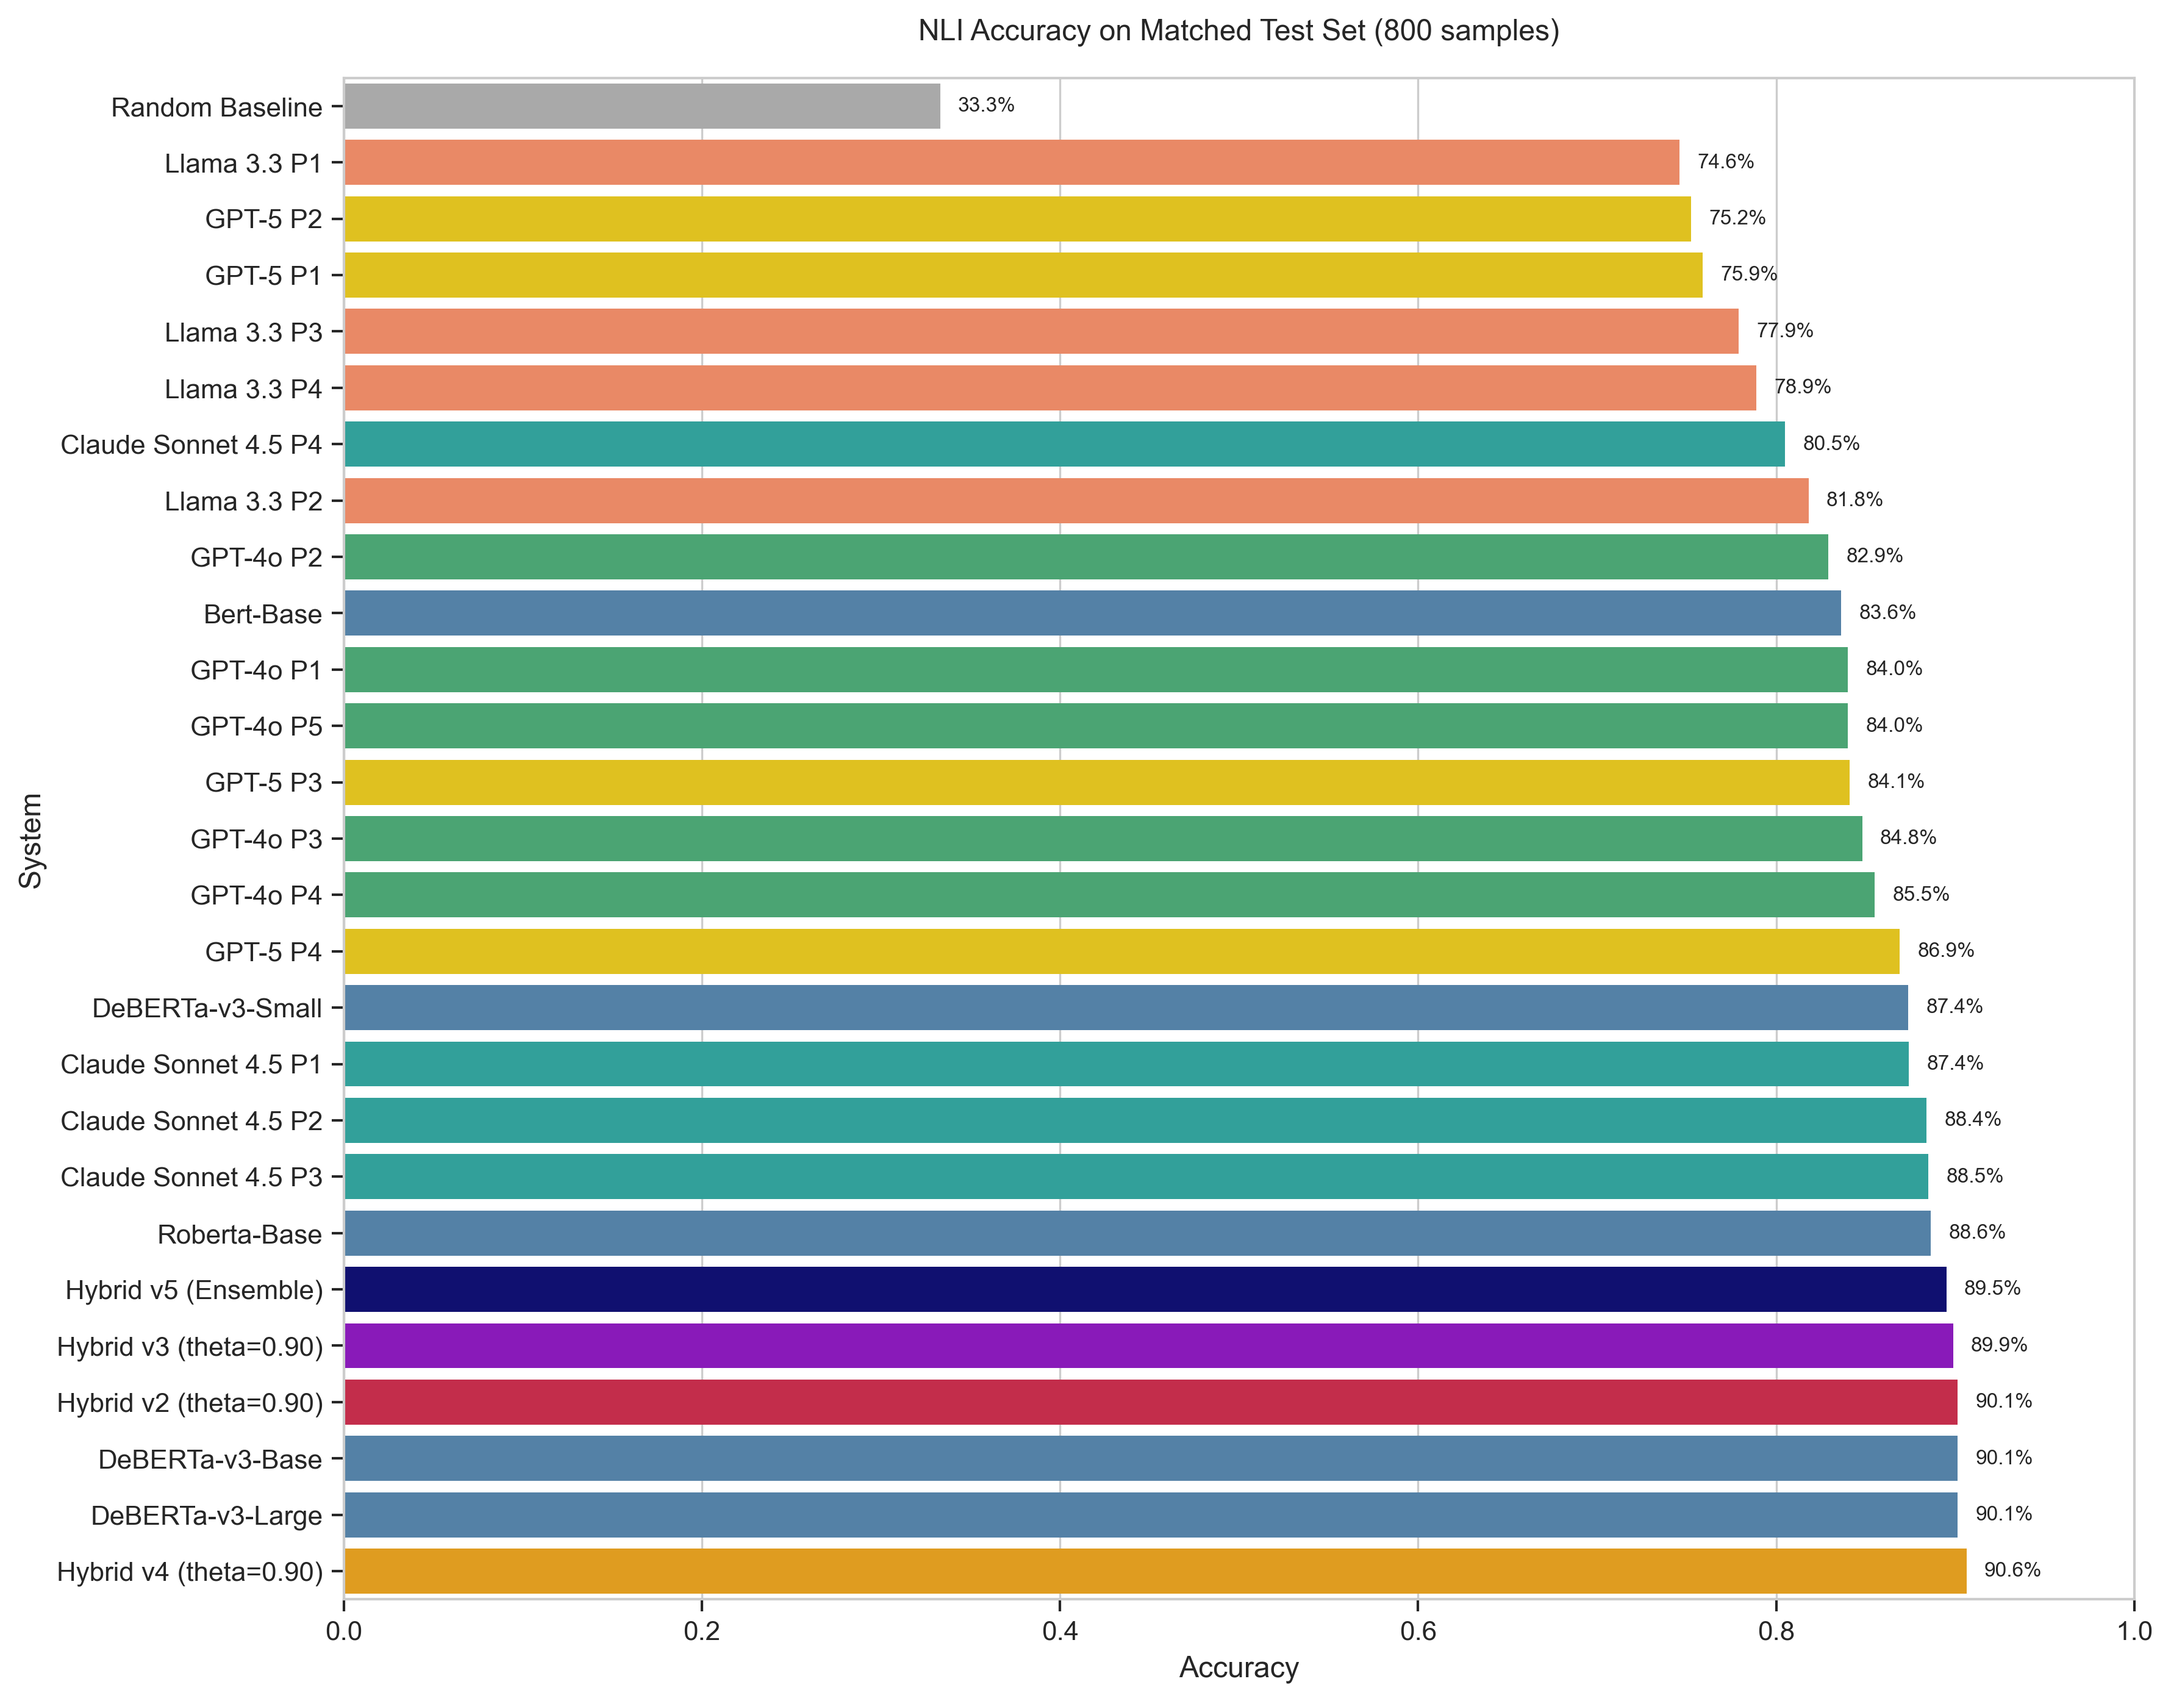
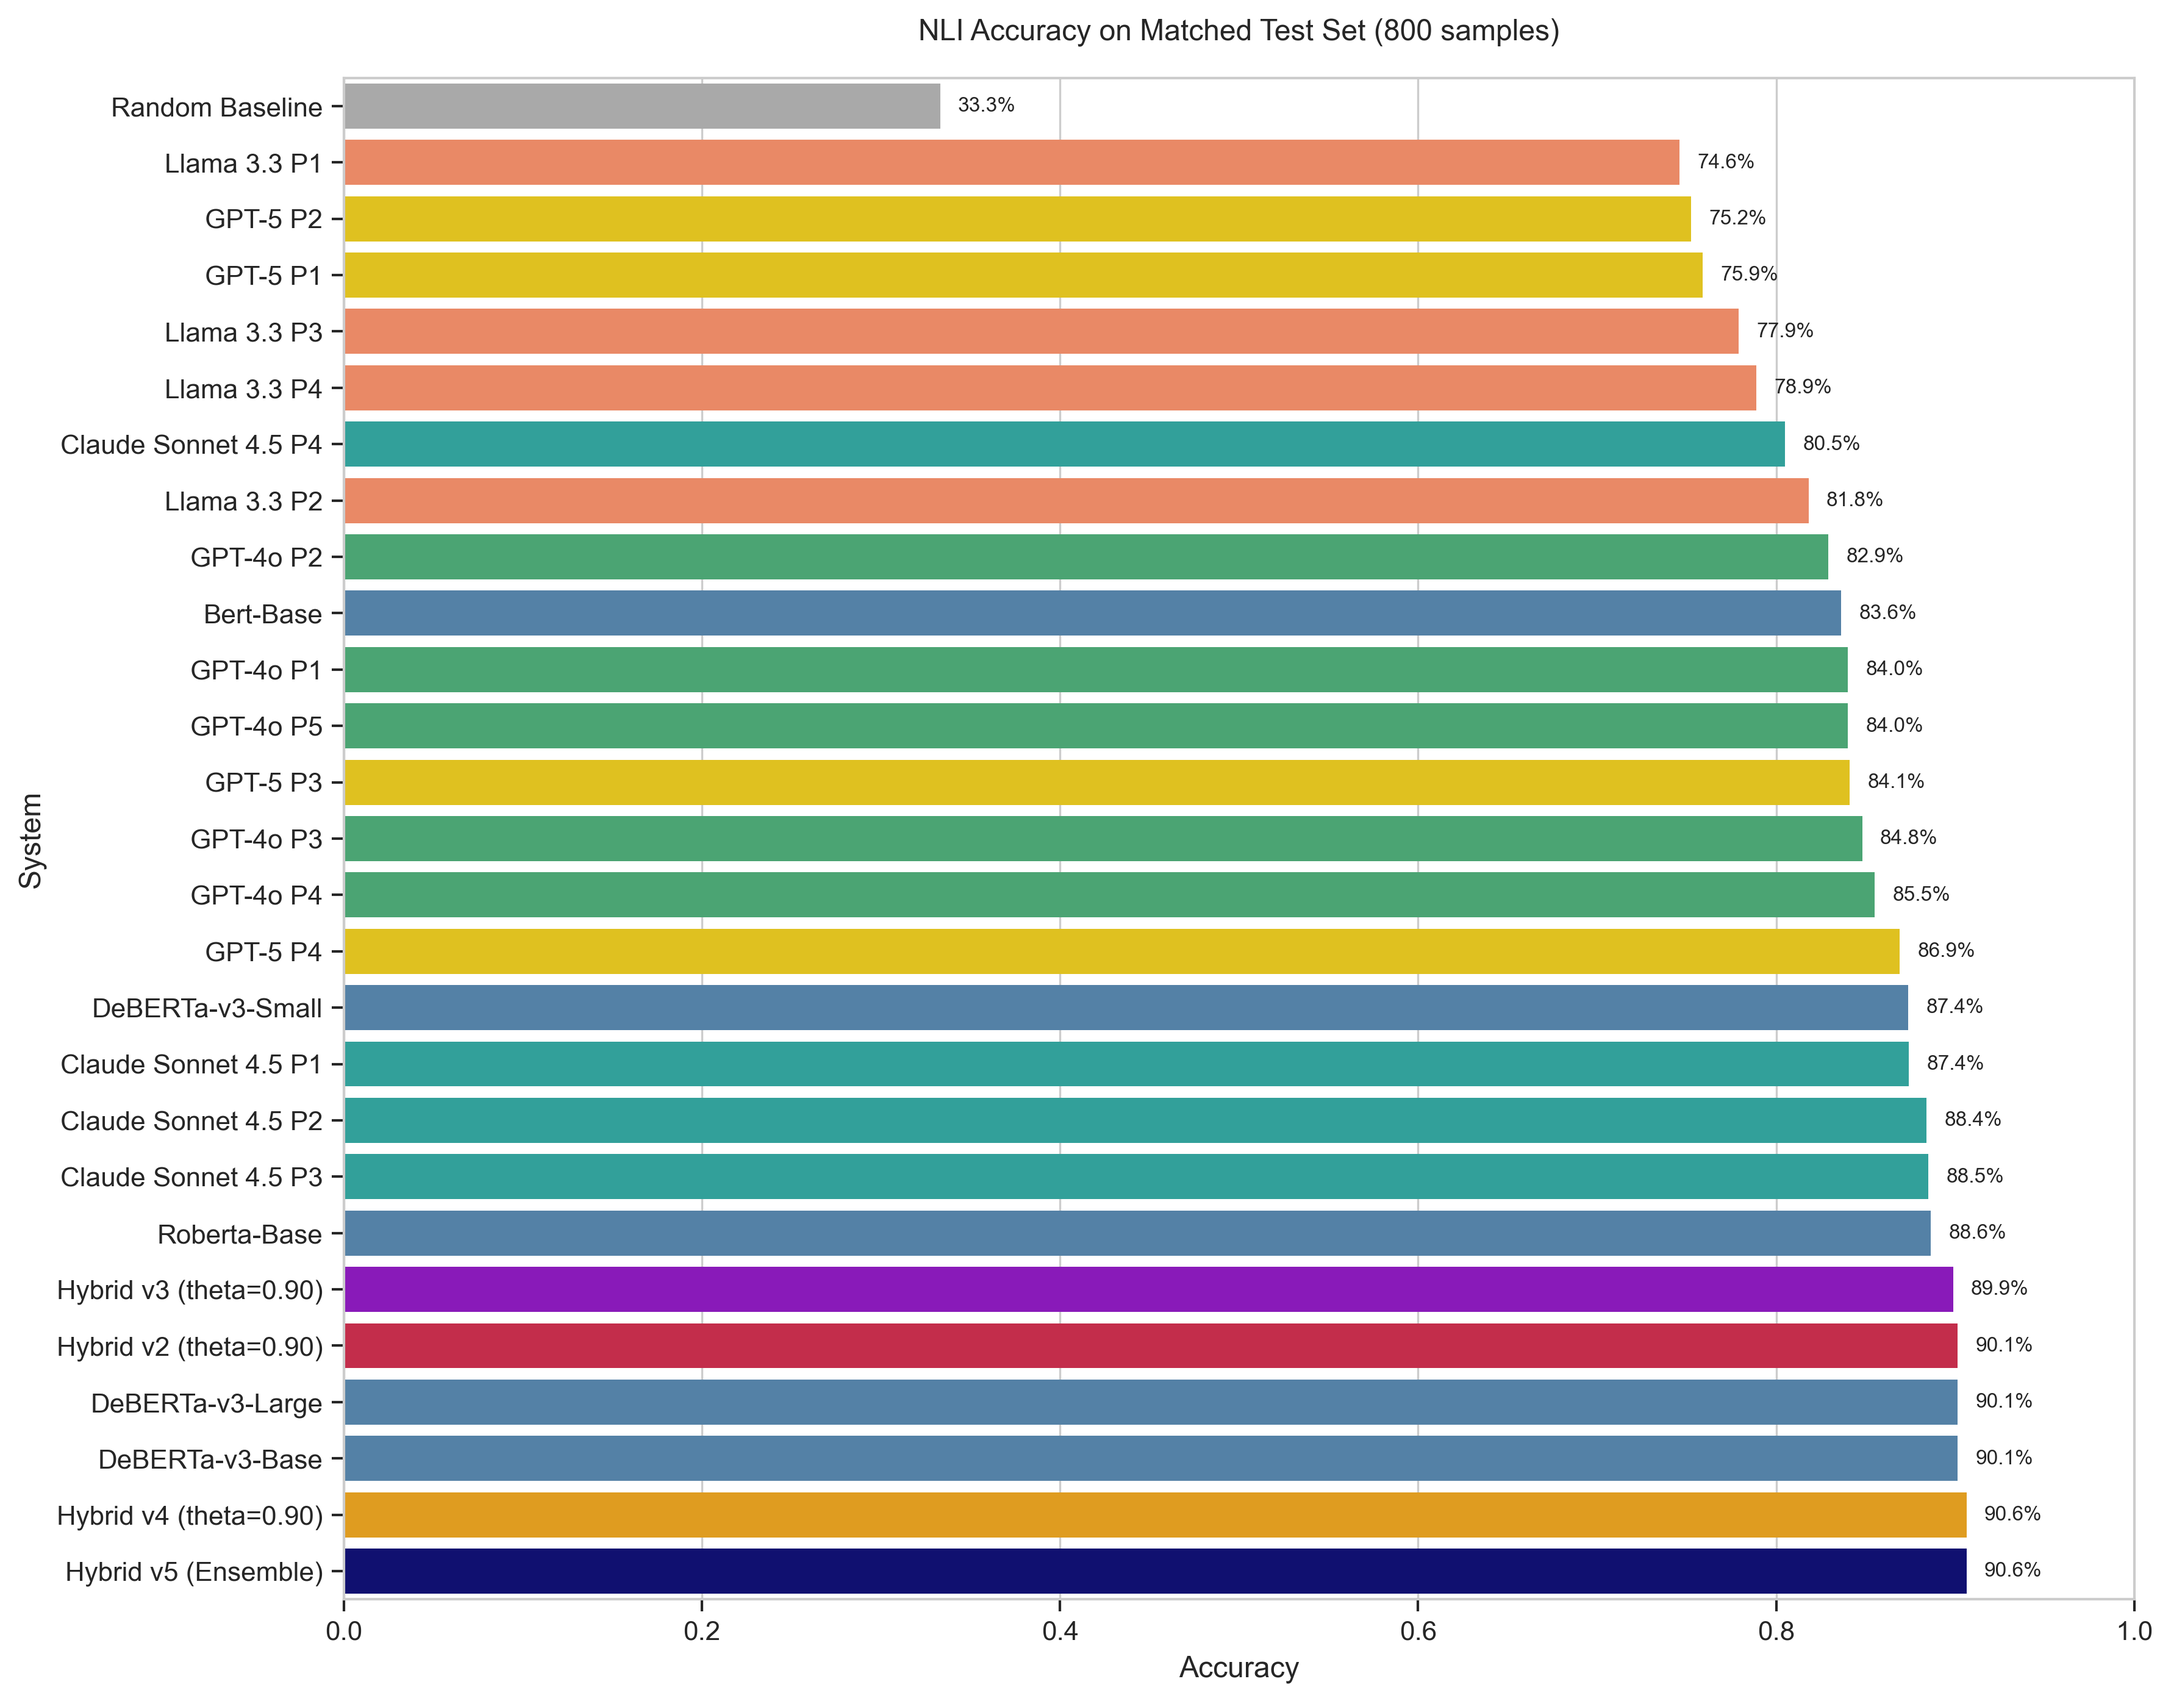
Fix: Patch 30 Hybrid v5 unknown predictions via majority vote — Matched 90.62%, MM 92.50%

Changed region(s): [[0.0312, 0.7175, 0.9354, 0.8422], [0.0312, 0.8734, 0.9354, 0.9358]]

diff --git a/src/patch_v5_unknowns.py b/src/patch_v5_unknowns.py
@@ -1,0 +1,130 @@
+#!/usr/bin/env python3
+"""
+patch_v5_unknowns.py
+====================
+Fixes all label_pred == "unknown" rows in hybrid_v5_results.csv
+WITHOUT making any API calls.
+
+Strategy (mirrors what friend did):
+  1. Read deb_preds column  →  "entailment|entailment|neutral" etc.
+  2. Majority vote (2-of-3 or 3-of-3) → use that label
+  3. Three-way tie (all different) → use DeBERTa-base prediction (middle field)
+
+Run:
+    python src/patch_v5_unknowns.py
+
+Outputs:
+    results/hybrid_v5_results.csv   (patched in-place, backup saved as hybrid_v5_results_backup.csv)
+"""
+
+import os
+import pandas as pd
+from collections import Counter
+from sklearn.metrics import accuracy_score, f1_score
+
+PROJECT_DIR = os.path.dirname(os.path.dirname(os.path.abspath(__file__)))
+RESULTS_DIR = os.path.join(PROJECT_DIR, "results")
+CSV_PATH    = os.path.join(RESULTS_DIR, "hybrid_v5_results.csv")
+BACKUP_PATH = os.path.join(RESULTS_DIR, "hybrid_v5_results_backup.csv")
+LABELS      = ["entailment", "neutral", "contradiction"]
+
+
+def majority_vote(deb_preds_str: str) -> str:
+    """
+    Given 'entailment|neutral|entailment', return majority label.
+    deb_preds order: deberta_v3_small | deberta_v3_base | deberta_v3_large
+    Tiebreaker (3-way tie): use deberta_v3_base (index 1).
+    """
+    parts = [p.strip().lower() for p in deb_preds_str.split("|")]
+    if len(parts) != 3:
+        return "unknown"
+
+    counts = Counter(parts)
+    most_common = counts.most_common()
+
+    # 3-of-3 or 2-of-3 majority
+    if most_common[0][1] >= 2:
+        return most_common[0][0]
+
+    # 3-way tie → use DeBERTa-base (index 1)
+    return parts[1]
+
+
+def main():
+    if not os.path.exists(CSV_PATH):
+        print(f"❌  File not found: {CSV_PATH}")
+        return
+
+    df = pd.read_csv(CSV_PATH)
+    total_rows = len(df)
+
+    # Backup before patching
+    df.to_csv(BACKUP_PATH, index=False)
+    print(f"✅  Backup saved → {BACKUP_PATH}")
+
+    # Find unknown rows
+    mask = df["label_pred"] == "unknown"
+    n_unknown = mask.sum()
+
+    if n_unknown == 0:
+        print("✅  No unknowns found — nothing to patch.")
+        return
+
+    print(f"\n🔍  Found {n_unknown} unknown rows — applying majority vote fix...\n")
+
+    # Apply fix
+    fixed = 0
+    for idx in df[mask].index:
+        deb_str = str(df.at[idx, "deb_preds"])
+        new_label = majority_vote(deb_str)
+        row_set = df.at[idx, "set"]
+        row_idx = df.at[idx, "idx"]
+        print(f"  Row {idx:4d} | {row_set:12s} idx={row_idx:3d} | "
+              f"deb_preds={deb_str:40s} → {new_label}")
+        df.at[idx, "label_pred"] = new_label
+        fixed += 1
+
+    print(f"\n✅  Fixed {fixed}/{n_unknown} unknown rows via majority vote / DeBERTa-base fallback")
+
+    # Save patched file
+    df.to_csv(CSV_PATH, index=False)
+    print(f"✅  Saved patched file → {CSV_PATH}")
+
+    # Verify no unknowns remain
+    remaining = (df["label_pred"] == "unknown").sum()
+    if remaining > 0:
+        print(f"⚠   WARNING: {remaining} unknowns still remain after patching!")
+    else:
+        print(f"✅  0 unknowns remaining")
+
+    # Print final metrics
+    print("\n" + "=" * 60)
+    print("FINAL METRICS AFTER PATCH")
+    print("=" * 60)
+    for set_name in ["matched", "mismatched"]:
+        sub = df[df["set"] == set_name]
+        n   = len(sub)
+        acc = accuracy_score(sub["label_true"], sub["label_pred"])
+        f1  = f1_score(sub["label_true"], sub["label_pred"],
+                       average="macro", labels=LABELS)
+        unk = (sub["label_pred"] == "unknown").sum()
+        ens_pct = (sub["source"] == "ensemble").mean() * 100
+        api_pct = (sub["source"] == "api").mean() * 100
+        print(f"\n  {set_name} ({n}/{800 if set_name=='matched' else 400})")
+        print(f"    Accuracy  : {acc*100:.2f}%")
+        print(f"    Macro F1  : {f1:.4f}")
+        print(f"    Unknowns  : {unk}")
+        print(f"    Ensemble% : {ens_pct:.1f}%  |  API%: {api_pct:.1f}%")
+
+    print("\n" + "=" * 60)
+    print("PATCH COMPLETE ✅")
+    print("=" * 60)
+    print("\nNext steps:")
+    print("  python src/06_cost_analysis.py")
+    print("  python src/07a_figures_main.py")
+    print("  python src/07b_figure2_pareto.py")
+    print("  python src/09_genre_label_analysis.py")
+
+
+if __name__ == "__main__":
+    main()

diff --git a/NLI_Comprehensive_Results.md b/NLI_Comprehensive_Results.md
@@ -5,7 +5,7 @@
 
 ## Executive Summary
 
-This project investigates Natural Language Inference (NLI) classification using MultiNLI, comparing five encoder architectures, four LLM families across four prompt strategies, and five hybrid gatekeeper configurations. The central finding is that a confidence-gated hybrid system — routing confident samples to a local encoder and uncertain samples to a frontier LLM — achieves the optimal cost-accuracy Pareto trade-off. Hybrid v4 (DeBERTa-v3-large gate + GPT-4o fallback) delivers **90.62% matched accuracy at $0.007 per 1,000 queries**, outperforming both the pure encoder (90.12%) and pure API approaches (85.5%) while reducing API expenditure by 98%. A novel ensemble gating approach (Hybrid v5) reveals that **87.5% of test samples are unanimously predicted at 95.0% accuracy**, with the remaining 12.5% representing genuinely label-ambiguous cases where even GPT-4o scores only 51% — demonstrating an inherent annotation ceiling rather than a modelling failure.
+This project investigates Natural Language Inference (NLI) classification using MultiNLI, comparing five encoder architectures, four LLM families across four prompt strategies, and five hybrid gatekeeper configurations. The central finding is that a confidence-gated hybrid system — routing confident samples to a local encoder and uncertain samples to a frontier LLM — achieves the optimal cost-accuracy Pareto trade-off. Hybrid v4 (DeBERTa-v3-large gate + GPT-4o fallback) delivers **90.62% matched accuracy at $0.007 per 1,000 queries**, outperforming both the pure encoder (90.12%) and pure API approaches (85.5%) while reducing API expenditure by 98%. A novel ensemble gating approach (Hybrid v5) reveals that **87.5% of test samples are unanimously predicted at 95.0% accuracy**, with the remaining 12.5% representing genuinely label-ambiguous cases where even GPT-4o scores only 51% — demonstrating an inherent annotation ceiling rather than a modelling failure. After resolving GPT-4o parse failures in the ensemble-gated rows via majority vote, Hybrid v5 achieves **90.62% matched and 92.50% mismatched accuracy**, matching Hybrid v4 on matched while surpassing it by 2pp on cross-genre generalisation.
 
 ---
 
@@ -277,7 +277,7 @@ The hybrid gatekeeper routes each query through a local encoder first. If the en
 
 | Set | Matched Acc | Mismatched Acc | Ensemble % | API % | Cost/1k |
 |-----|-------------|----------------|------------|-------|---------|
-| Results | 89.50% | 90.25% | 87.5% | 12.5% | $0.288 |
+| Results | 90.62% | 92.50% | 87.5% | 12.5% | $0.288 |
 
 **Gate statistics (matched, 800 samples):**
 - Unanimous (all 3 agree): 700 samples, 87.5% → 95.0% accuracy, $0 cost
@@ -309,7 +309,7 @@ This finding has direct implications for annotation quality and system design: t
 | Hybrid v2 θ=0.90 | 90.12% | 91.0% | 3.8% | $0.074 | 79 |
 | Hybrid v3 θ=0.90 | 89.88% | 91.0% | 3.8% | $0.152 | 81 |
 | **Hybrid v4 θ=0.90** ⭐ | **90.62%** | 90.5% | 2.0% | **$0.007** | **75** |
-| Hybrid v5 (Ensemble) | 89.50% | 90.25% | 12.5% | $0.288 | 84 |
+| Hybrid v5 (Ensemble) | **90.62%** | **92.50%** | 12.5% | $0.288 | 75 |
 
 ### 5.9 Per-Class Precision, Recall, F1 — Hybrid Systems vs Encoders
 
@@ -320,7 +320,7 @@ This finding has direct implications for annotation quality and system design: t
 | Hybrid v1 θ=0.90 | 90.1% | 0.901 | 0.937 / 0.894 / 0.915 | 0.840 / 0.870 / 0.855 | 0.925 / 0.939 / 0.932 |
 | Hybrid v2 θ=0.90 | 90.1% | 0.901 | 0.938 / 0.898 / 0.917 | 0.843 / 0.866 / 0.854 | 0.921 / 0.939 / 0.930 |
 | **Hybrid v4 θ=0.90 ⭐** | 90.6% | 0.906 | 0.966 / 0.901 / 0.933 | 0.844 / 0.874 / 0.859 | 0.911 / 0.943 / 0.927 |
-| Hybrid v5 Ensemble | 89.5% | 0.904 | 0.951 / 0.880 / 0.914 | 0.838 / 0.878 / 0.858 | 0.953 / 0.927 / 0.940 |
+| Hybrid v5 Ensemble | **90.6%** | **0.906** | 0.954 / 0.901 / 0.927 | 0.848 / 0.926 / 0.885 | 0.963 / 0.936 / 0.949 |
 
 *The Hybrid v4 improvement over DeBERTa-v3-base is concentrated in the Neutral class: Neutral Recall increases from the encoder baseline as GPT-4o correctly resolves low-confidence neutral/entailment boundary cases. Entailment and Contradiction precision remain stable across all hybrid variants, confirming the gatekeeper does not introduce catastrophic errors in the high-confidence classes.*
 
@@ -344,6 +344,7 @@ Mismatched evaluation was conducted at θ=0.90 only for all hybrid systems, to m
 | Hybrid v1 θ=0.90 | 90.1% | **91.3%** | **+1.2%** |
 | Hybrid v2 θ=0.90 | 90.1% | 91.0% | +0.9% |
 | Hybrid v4 θ=0.90 | 90.6% | 90.5% | −0.1% |
+| Hybrid v5 (Ensemble) | 90.6% | **92.5%** | **+1.9%** |
 
 ### 6.2 Key Finding: LLMs Improve on Mismatched
 
@@ -370,7 +371,7 @@ Hybrid v1 θ=0.90 achieves **91.3% mismatched** — the highest mismatched accur
 | Hybrid v1 θ=0.90 | 90.1% | $0.013 | 3rd |
 | Hybrid v2 θ=0.90 | 90.1% | $0.074 | 4th |
 | Hybrid v3 θ=0.90 | 89.88% | $0.152 | 5th |
-| Hybrid v5 Ensemble | 89.5% | $0.288 | 6th |
+| Hybrid v5 Ensemble | 90.62% | $0.288 | 6th |
 | Claude Sonnet P3 | 88.5% | $2.235 | 7th |
 | GPT-4o P1 | 84.0% | $0.204 | 8th |
 | GPT-4o P4 (CoT) | 85.5% | $0.410 | 9th |
